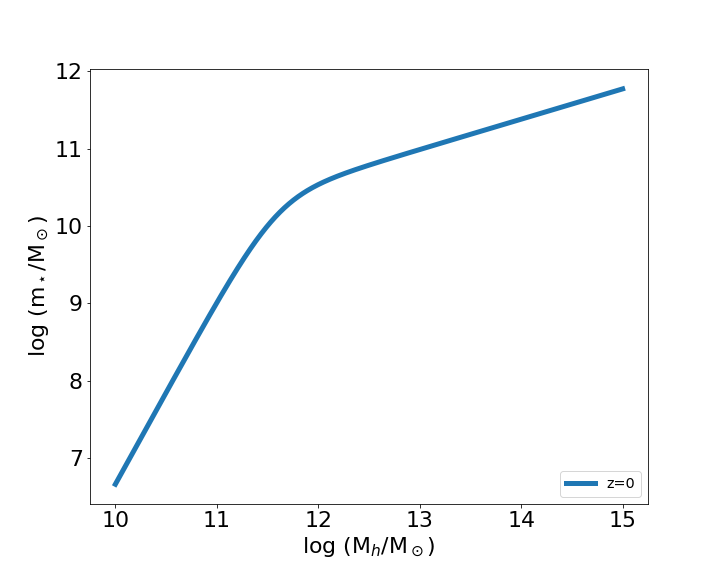
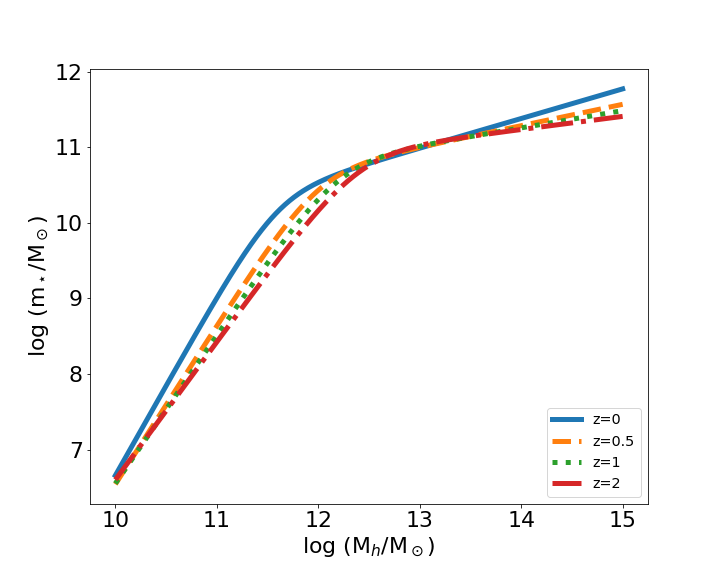
Lab5 Finished

diff --git a/Labs/Lab5/Lab5.py b/Labs/Lab5/Lab5.py
@@ -219,9 +219,10 @@ mh = np.logspace(10,15,1000) # Logarithmically spaced array
 
 
 # Define Instances of the Class for each redshift
-MosterZ0 = AbundanceMatching(mh,0)
-
-
+MosterZ0 = AbundanceMatching(mh,0) # z = 0
+MosterZ0_5 = AbundanceMatching(mh,0.5)
+MosterZ1 = AbundanceMatching(mh,1)
+MosterZ2 = AbundanceMatching(mh,2)
 
 
 
@@ -239,6 +240,17 @@ plt.plot(np.log10(mh), np.log10(MosterZ0.StellarMass()),
 
 # Continue plotting for the other redshifts here
 
+# Plot z = 0
+plt.plot(np.log10(mh), np.log10(MosterZ0_5.StellarMass()),
+         linewidth = 5, linestyle="--", label='z=0.5')
+
+# Plot z = 0
+plt.plot(np.log10(mh), np.log10(MosterZ1.StellarMass()),
+         linewidth = 5, linestyle=":", label='z=1')
+
+# Plot z = 0
+plt.plot(np.log10(mh), np.log10(MosterZ2.StellarMass()),
+         linewidth = 5, linestyle="-.", label='z=2')
 
 
 
@@ -261,7 +273,7 @@ plt.savefig("AbundanceMatching_Lab5.png")
 # 
 # ## A) 
 # According to $\Lambda$CDM theory, what should be the stellar mass of the LMC halo be at z=0?  
-# 
+#
 # ## B) 
 # How does this stellar mass compare to the actual observed stellar mass of the LMC at the present day of ~$3 \times 10^9$ M$_\odot$ ? 
 # 
@@ -269,9 +281,27 @@ plt.savefig("AbundanceMatching_Lab5.png")
 # What is the $\Lambda$CDM expected halo mass for the LMC (using Abundance Matching)?  
 
 
+#LMC halo mass
+haloLMC1 = 3e10 #traditional models
 
+#Abundance matching object
+LMC1 = AbundanceMatching(haloLMC1, 0)
 
+#Find the stellar mass
+LMC1star = LMC1.StellarMass()
 
+print(LMC1star/1e9,3)
+print(LMC1star/3e9*100)
+
+# say we know that LMC stellar mass = 3e9 Msun
+# What is the halo mass?
+
+haloLMC2 = 1.65e11
+
+LMC2 = AbundanceMatching(haloLMC2, 0)
+
+LMC2star = LMC2.StellarMass()
+print(np.round(LMC2star/1e9, 3))
 
 # # Q2
 # 
@@ -281,7 +311,28 @@ plt.savefig("AbundanceMatching_Lab5.png")
 # ## B)
 # What is the expected stellar mass of an L* galaxy at z = 2? 
 
+# Find the characteristic halo mass at z=0
+M1halo_z0 = MosterZ0.logM1()
+print(f"Log M1, z=0: {M1halo_z0}")
 
+# Create a new instance of the class, with halo mass = log M1 at z = 0
 
+M1z0 = AbundanceMatching(10**M1halo_z0, 0)
 
+# Determine the stellar mass of that halo
+M1star_z0 = M1z0.StellarMass()
+print(f"Stellar mass of L* gal at z=0: {M1star_z0/1e10} (1e10 Msun)")
+
+# Repeating at z=2
+# Find the characteristic halo mass at z=2
+M1halo_z2 = MosterZ2.logM1()
+print(f"Log M1, z=2: {M1halo_z2}")
+
+# Create a new instance of the class, with halo mass = log M1 at z = 2
+
+M1z2 = AbundanceMatching(10**M1halo_z2, 2)
+
+# Determine the stellar mass of that halo
+M1star_z2 = M1z2.StellarMass()
+print(f"Stellar mass of L* gal at z=2: {M1star_z2/1e10} (1e10 Msun)")
 
